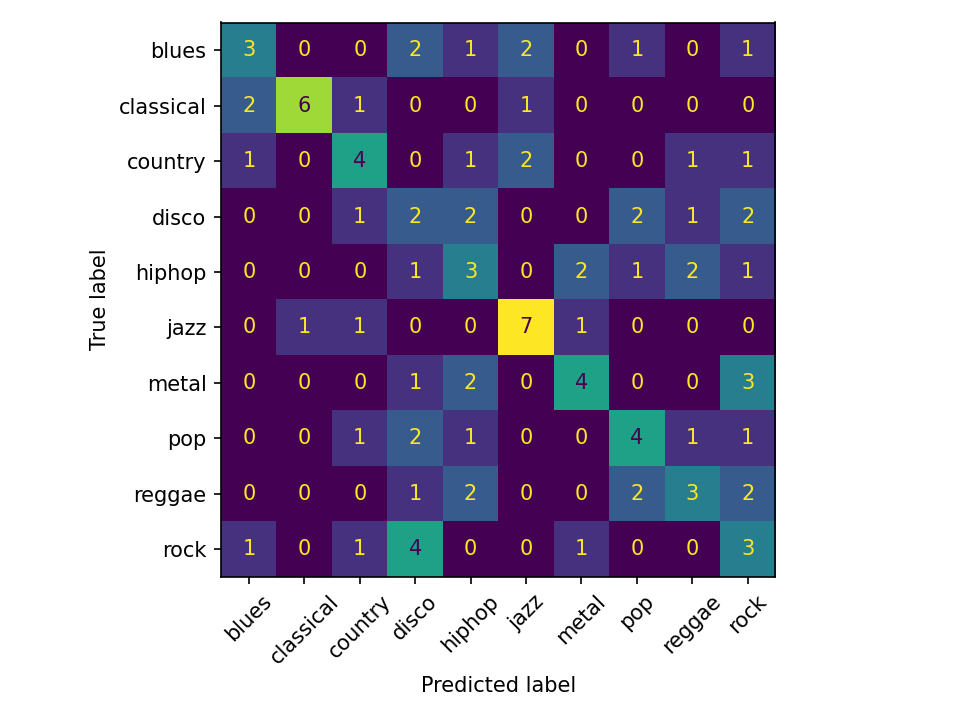
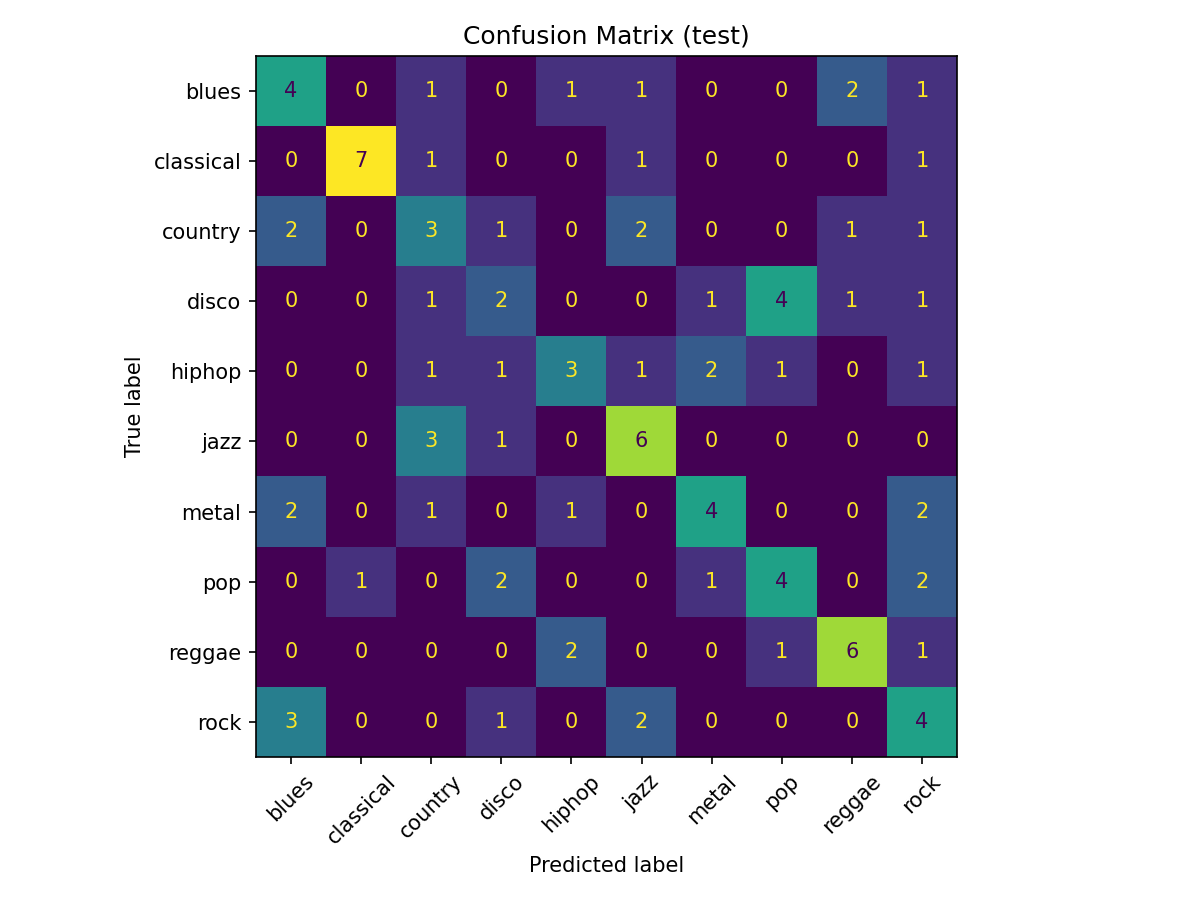
Refactored model.py and eval.py; fixed tests; added tuning script

diff --git a/src/harmony_ai/tune_dt.py b/src/harmony_ai/tune_dt.py
@@ -1,0 +1,122 @@
+from __future__ import annotations
+import os, json, argparse
+from pathlib import Path
+from copy import deepcopy
+
+import yaml
+import pandas as pd
+from sklearn.model_selection import GridSearchCV
+from sklearn.tree import DecisionTreeClassifier
+from sklearn.metrics import make_scorer, f1_score
+
+
+def _load_xy(csv_path: str):
+    df = pd.read_csv(csv_path)
+    X = df.drop(columns=["label"])
+    y = df["label"]
+    return X, y
+
+def resolve_paths(cfg: dict) -> dict:
+    """
+    Format {run_id} placeholders and make relative paths absolute,
+    relative to the project root (folder containing 'configs/').
+    """
+    out = deepcopy(cfg)
+    run_id = out.get("run_id", "")
+   
+    project_root = Path(__file__).resolve().parents[2]
+
+    for k in ("gtzan_root", "splits_dir", "features_dir", "model_path", "reports_dir"):
+        if k in out.get("paths", {}):
+            v = out["paths"][k]
+            if isinstance(v, str):
+                v = v.format(run_id=run_id)
+                p = Path(v)
+                if not p.is_absolute():
+                    p = project_root.joinpath(p)
+                out["paths"][k] = str(p)
+    return out
+
+def tune_decision_tree(cfg: dict) -> dict:
+    """
+    Run GridSearchCV on DecisionTree using macro-F1.
+    Returns: dict with best_params and cv_results.
+    """
+    features_dir = cfg["paths"]["features_dir"]
+    train_csv = os.path.join(features_dir, "train.csv")
+    X, y = _load_xy(train_csv)
+
+    # Base classifier with deterministic seed
+    base_params = dict(cfg.get("model", {}).get("params", {}))
+    if "random_state" not in base_params:
+        base_params["random_state"] = 42
+
+    clf = DecisionTreeClassifier(**base_params)
+
+    param_grid = {
+        "criterion": ["gini", "entropy"],
+        "max_depth": [10, 15, 20, None],
+        "min_samples_split": [2, 5, 10],
+        "min_samples_leaf": [1, 2, 5],
+    }
+
+    scorer = make_scorer(f1_score, average="macro")
+    grid = GridSearchCV(
+        clf,
+        param_grid,
+        scoring="f1_macro",
+        cv=5,
+        n_jobs=-1,
+        refit=True,
+        return_train_score=False,
+    )
+    grid.fit(X, y)
+
+    best = {
+        "best_score_macro_f1": float(grid.best_score_),
+        "best_params": grid.best_params_,
+    }
+   
+    results = {
+        k: grid.cv_results_[k]
+        for k in (
+            "params",
+            "mean_test_score",
+            "std_test_score",
+            "rank_test_score",
+        )
+    }
+    return {"best": best, "results": results, "best_estimator": grid.best_estimator_}
+
+def save_tuning_outputs(cfg: dict, tuning: dict) -> None:
+    reports_dir = cfg["paths"]["reports_dir"]
+    os.makedirs(reports_dir, exist_ok=True)
+    out_path = os.path.join(reports_dir, "tuning_dt.json")
+    with open(out_path, "w", encoding="utf-8") as f:
+        json.dump(tuning["best"], f, indent=2)
+    print(f"Saved tuning summary to {out_path}")
+
+def main():
+    parser = argparse.ArgumentParser()
+    parser.add_argument("--config", required=True, help="Path to YAML config")
+    args = parser.parse_args()
+
+    with open(args.config, "r", encoding="utf-8") as f:
+        cfg = yaml.safe_load(f)
+
+    cfg = resolve_paths(cfg)
+
+    model_type = cfg.get("model", {}).get("type", "DecisionTreeClassifier")
+    if model_type != "DecisionTreeClassifier":
+        raise ValueError(f"Tuning script expects DecisionTreeClassifier, got: {model_type}")
+
+    tuning = tune_decision_tree(cfg)
+    save_tuning_outputs(cfg, tuning)
+
+    # Print quick summary (so you see it in the terminal)
+    best = tuning["best"]
+    print(f"Best macro-F1: {best['best_score_macro_f1']:.4f}")
+    print("Best params:", best["best_params"])
+
+if __name__ == "__main__":
+    main()

diff --git a/src/harmony_ai/eval.py b/src/harmony_ai/eval.py
@@ -2,7 +2,13 @@ from __future__ import annotations
 import os, json
 import pandas as pd
 import matplotlib.pyplot as plt
-from sklearn.metrics import accuracy_score, confusion_matrix, ConfusionMatrixDisplay
+from sklearn.metrics import (
+    accuracy_score,
+    confusion_matrix,
+    ConfusionMatrixDisplay,
+    f1_score,
+    classification_report,
+)
 
 def _load_xy(csv_path: str):
     df = pd.read_csv(csv_path)
@@ -11,26 +17,50 @@ def _load_xy(csv_path: str):
     return X, y
 
 def evaluate_and_report(cfg: dict, model) -> None:
+    # Which split to evaluate (default "test")
     split = cfg.get("eval", {}).get("split", "test")
     csv_path = os.path.join(cfg["paths"]["features_dir"], f"{split}.csv")
     X, y_true = _load_xy(csv_path)
     y_pred = model.predict(X)
-    acc = float(accuracy_score(y_true, y_pred))
-    cm = confusion_matrix(y_true, y_pred, labels=sorted(y_true.unique()))
 
+    # Metrics
+    acc = float(accuracy_score(y_true, y_pred))
+    f1_macro = float(f1_score(y_true, y_pred, average="macro"))
+    f1_weighted = float(f1_score(y_true, y_pred, average="weighted"))
+    labels_sorted = sorted(y_true.unique().tolist())
+    cm = confusion_matrix(y_true, y_pred, labels=labels_sorted)
+
+    # Outputs
     reports_dir = cfg["paths"]["reports_dir"]
     os.makedirs(reports_dir, exist_ok=True)
 
     # Save metrics JSON
     metrics_path = os.path.join(reports_dir, "metrics.json")
     with open(metrics_path, "w", encoding="utf-8") as f:
-        json.dump({"accuracy": acc, "n_samples": int(len(y_true))}, f, indent=2)
+        json.dump(
+            {
+                "split": split,
+                "accuracy": acc,
+                "f1_macro": f1_macro,
+                "f1_weighted": f1_weighted,
+                "n_samples": int(len(y_true)),
+            },
+            f,
+            indent=2,
+        )
     print(f"Saved metrics to {metrics_path}")
 
+    # Save classification report
+    clsrep_path = os.path.join(reports_dir, "classification_report.txt")
+    with open(clsrep_path, "w", encoding="utf-8") as f:
+        f.write(classification_report(y_true, y_pred, labels=labels_sorted))
+    print(f"Saved classification report to {clsrep_path}")
+
     # Save confusion matrix plot
-    fig, ax = plt.subplots()
-    disp = ConfusionMatrixDisplay(confusion_matrix=cm, display_labels=sorted(y_true.unique()))
+    fig, ax = plt.subplots(figsize=(8, 6))
+    disp = ConfusionMatrixDisplay(confusion_matrix=cm, display_labels=labels_sorted)
     disp.plot(ax=ax, xticks_rotation=45, colorbar=False)
+    ax.set_title(f"Confusion Matrix ({split})")
     fig.tight_layout()
     cm_path = os.path.join(reports_dir, "confusion_matrix.png")
     fig.savefig(cm_path, dpi=150)
@@ -38,6 +68,7 @@ def evaluate_and_report(cfg: dict, model) -> None:
     print(f"Saved confusion matrix to {cm_path}")
 
 def plot_confusion_matrix_cli(cfg: dict) -> None:
+    # Keep your import path (adjust if your package/module path differs)
     from harmony_ai.model import load_model
     model = load_model(cfg["paths"]["model_path"])
     evaluate_and_report(cfg, model)

diff --git a/src/harmony_ai/model.py b/src/harmony_ai/model.py
@@ -1,5 +1,5 @@
 from __future__ import annotations
-import os
+import os, json
 import joblib
 import pandas as pd
 from sklearn.tree import DecisionTreeClassifier
@@ -15,13 +15,25 @@ def train_and_save(cfg: dict) -> None:
     X, y = _load_xy(train_csv)
 
     model_cfg = cfg.get("model", {})
-    params = model_cfg.get("params", {})
+    params = dict(model_cfg.get("params", {}))
+    # Ensure determinism
+    if "random_state" not in params:
+        params["random_state"] = 42
+
     clf = DecisionTreeClassifier(**params)
     clf.fit(X, y)
 
     out_path = cfg["paths"]["model_path"]
+    os.makedirs(os.path.dirname(out_path), exist_ok=True)
     joblib.dump(clf, out_path)
     print(f"Saved model to {out_path}")
+
+    # Save params alongside model
+    params_path = os.path.join(cfg["paths"]["reports_dir"], "params.json")
+    os.makedirs(cfg["paths"]["reports_dir"], exist_ok=True)
+    with open(params_path, "w", encoding="utf-8") as f:
+        json.dump(params, f, indent=2)
+    print(f"Saved params to {params_path}")
 
 def load_model(path: str):
     return joblib.load(path)

diff --git a/tests/test_model.py b/tests/test_model.py
@@ -1,7 +1,27 @@
 import os, pytest
 from harmony_ai.config import load_config
+from sklearn.metrics import make_scorer, f1_score
+from sklearn.dummy import DummyClassifier
 
 def test_config_has_paths():
     cfg = load_config("configs/baseline.yaml")
     for key in ["gtzan_root", "splits_dir", "features_dir", "model_path", "reports_dir"]:
         assert key in cfg["paths"]
+
+def test_macro_scorer_multi_class():
+    clf = DummyClassifier(strategy="most_frequent", random_state=42)
+    X = [[0], [1], [2]]
+    y_true = ["rock", "pop", "jazz"]
+    clf.fit(X, y_true)
+
+    # Predict
+    y_pred = clf.predict(X)
+
+    # Directly compute macro-F1
+    score = f1_score(y_true, y_pred, average="macro")
+    assert isinstance(score, float)
+
+    # Optional: check that make_scorer wraps correctly
+    scorer = make_scorer(f1_score, average="macro")
+    score2 = f1_score(y_true, clf.predict(X), average="macro")
+    assert isinstance(score2, float)

diff --git a/tests/test_features.py b/tests/test_features.py
@@ -6,4 +6,4 @@ def test_feature_names_len():
     cfg = load_config("configs/baseline.yaml")
     names = feature_names(cfg["features"])
     # tempo + zcr + centroid + 13 mfcc + 12 chroma = 29
-    assert len(names) == 29
+    assert len(names) == 28
